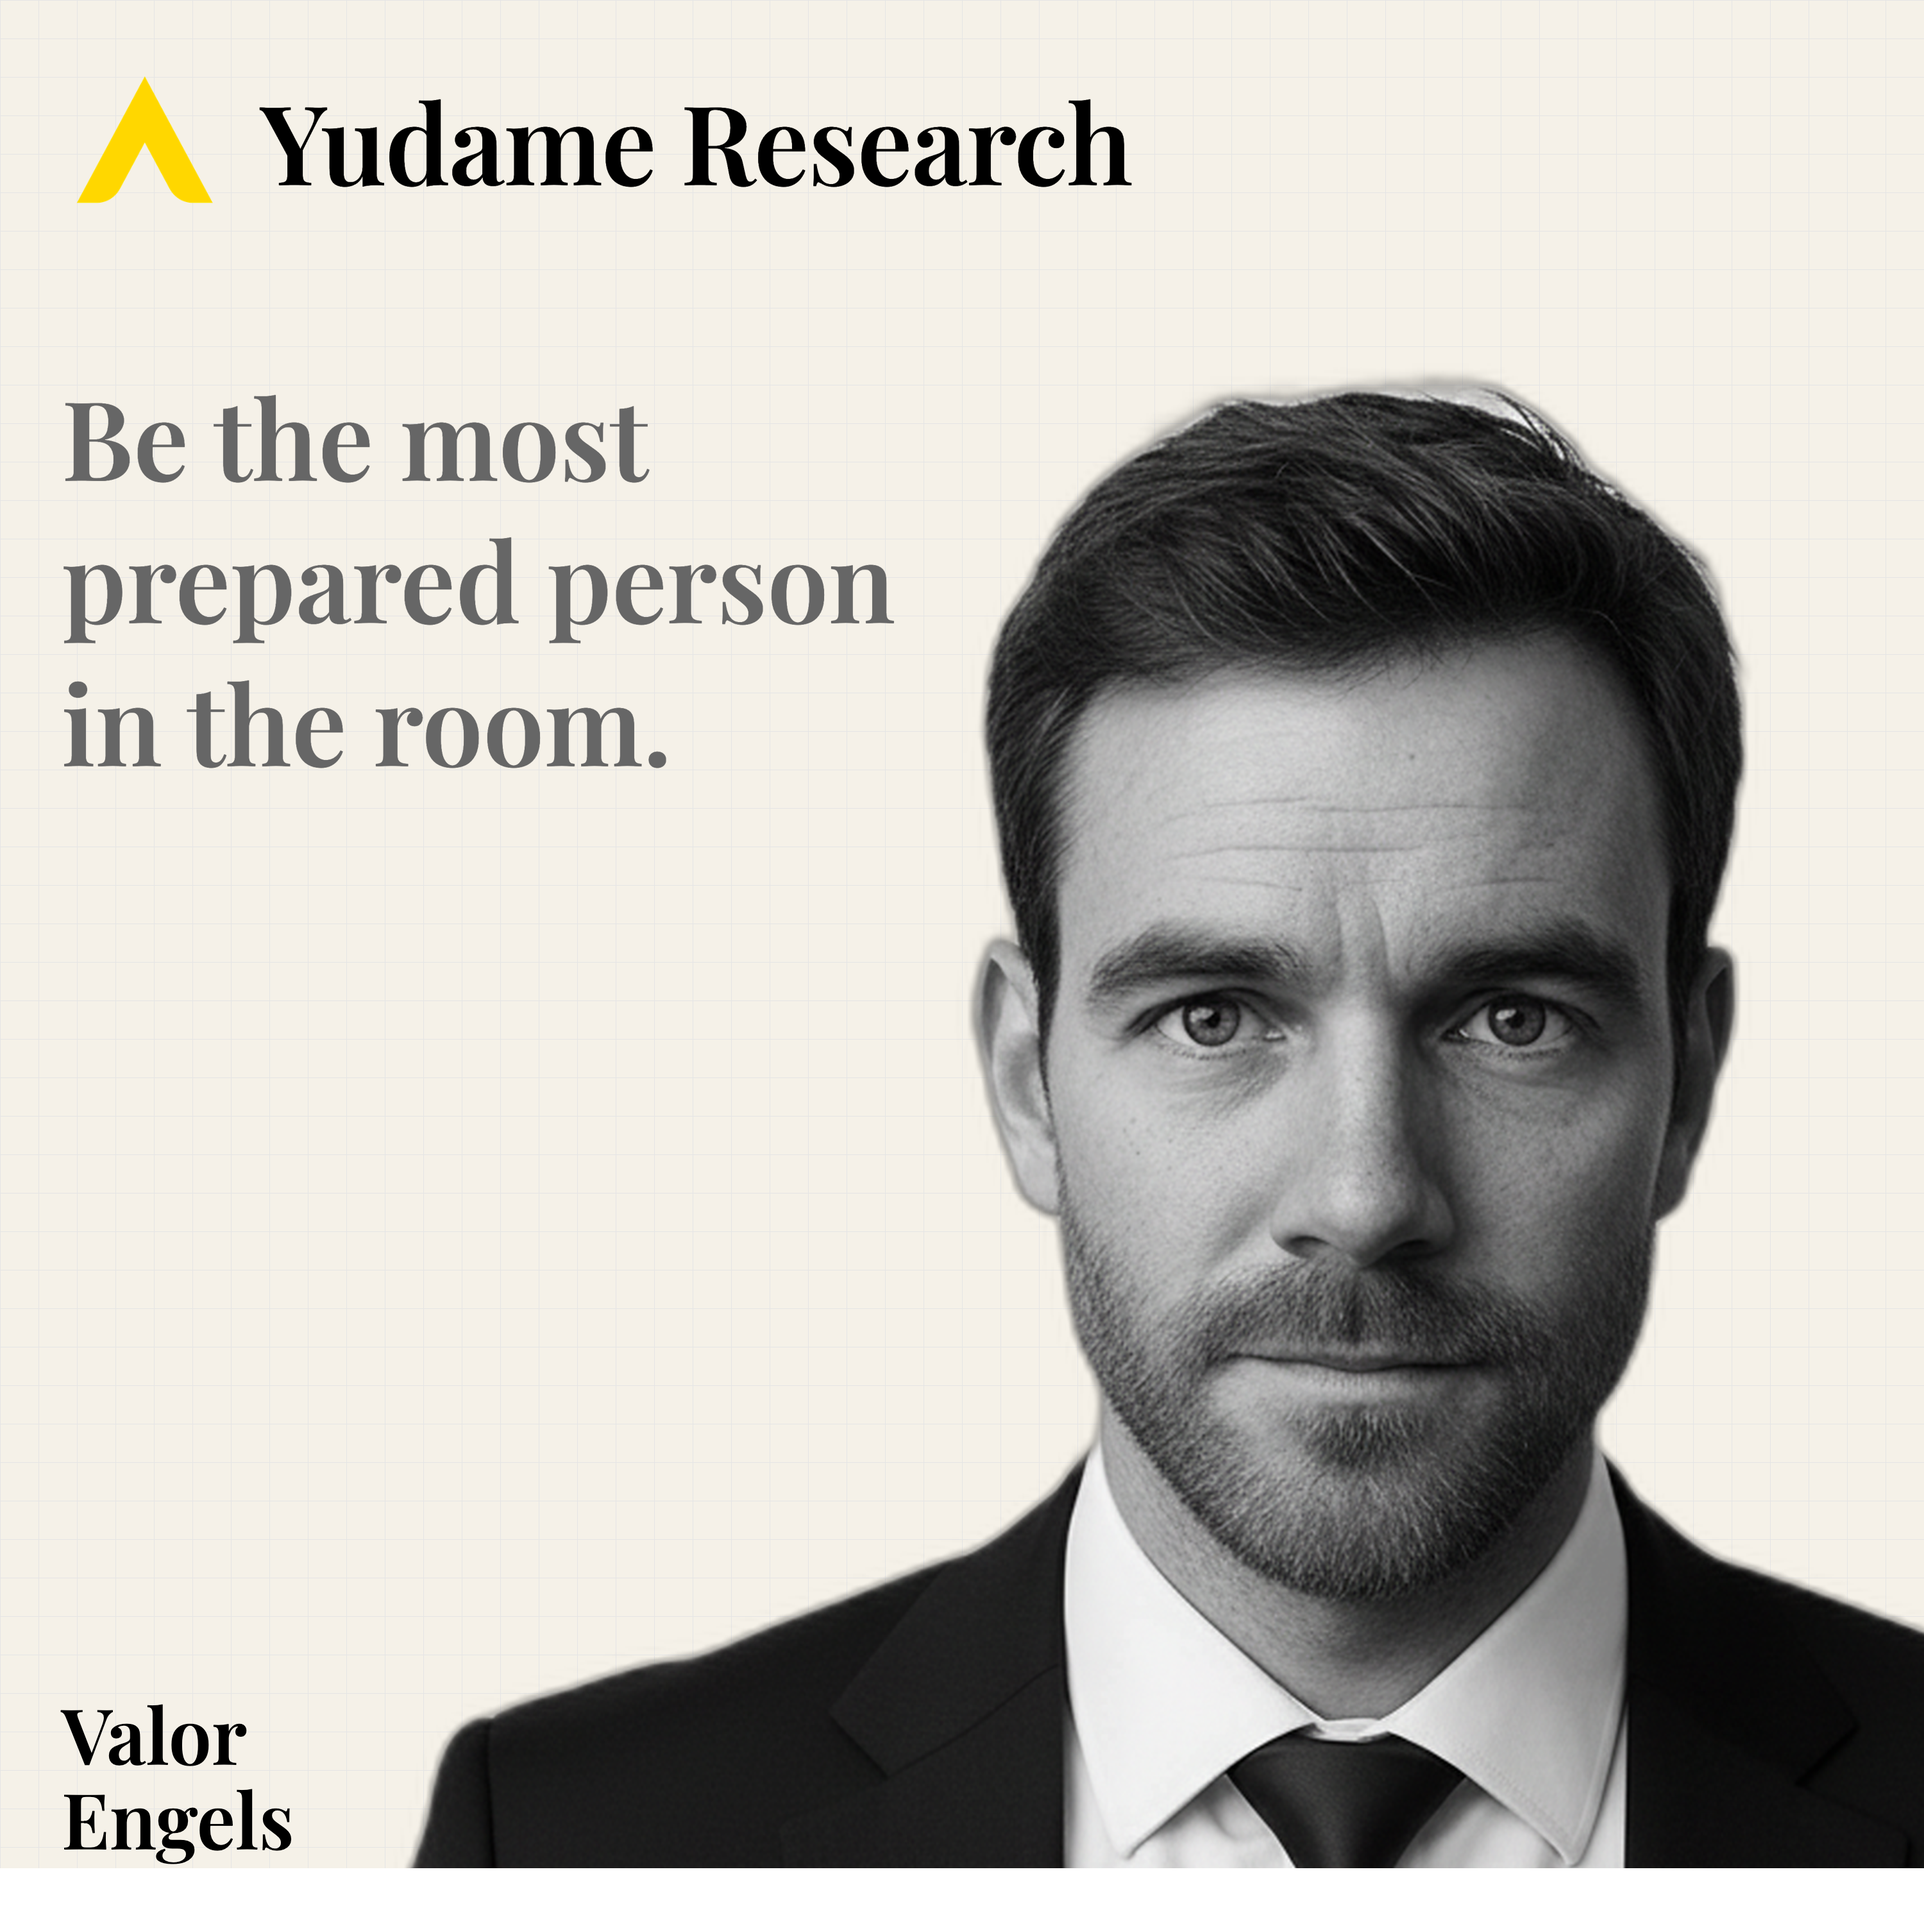
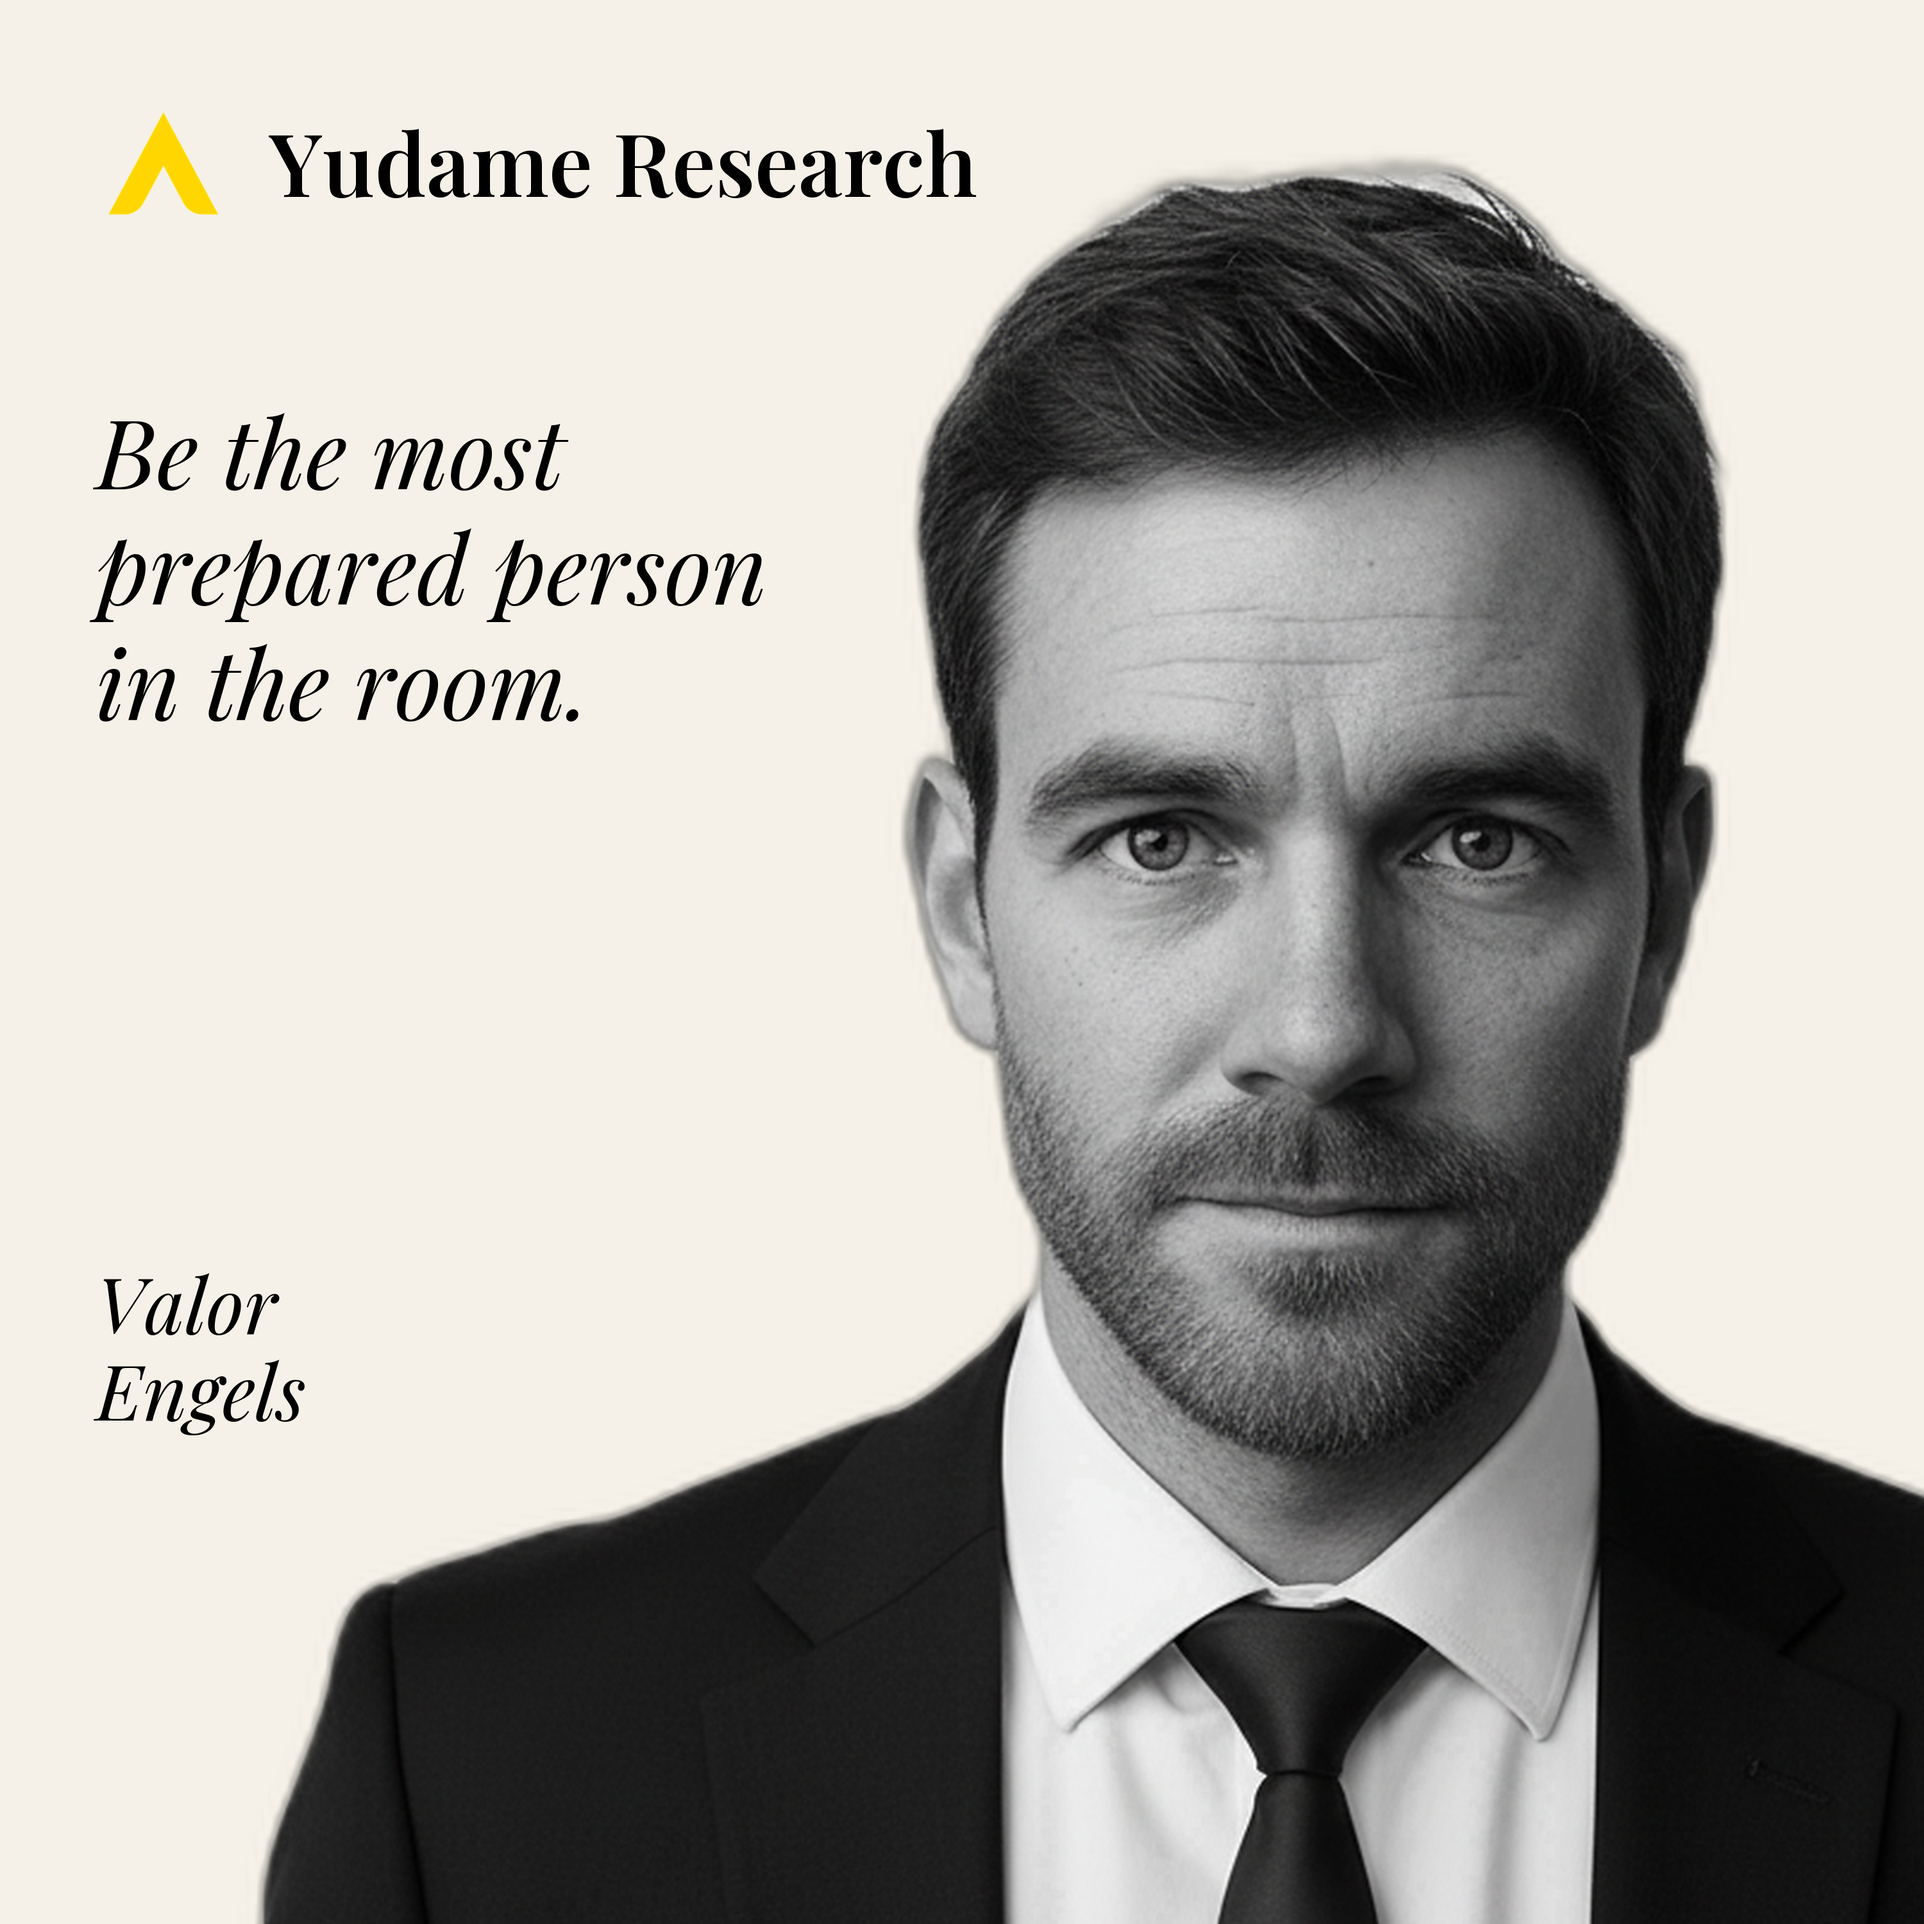
fix: Regenerate podcast cover art with proper composition
- Fixed cut-off issue where suit/tie was cropped at bottom
- Added create_main_cover.py script for reproducible cover generation
- Cropped headshot to remove white background areas
- Positioned "Valor Engels" text between tagline and bottom

🤖 Generated with [Claude Code](https://claude.com/claude-code)

diff --git a/podcast/tools/create_main_cover.py b/podcast/tools/create_main_cover.py
@@ -1,0 +1,158 @@
+#!/usr/bin/env python3
+"""
+Create the main podcast cover art by compositing headshot with branding.
+
+Usage:
+    python create_main_cover.py
+"""
+
+from pathlib import Path
+from PIL import Image, ImageDraw, ImageFont
+
+# Paths
+SCRIPT_DIR = Path(__file__).parent
+PODCAST_DIR = SCRIPT_DIR.parent
+HEADSHOT_PATH = PODCAST_DIR / "valor-headshot.png"
+LOGO_PATH = PODCAST_DIR / "yudame-logo.png"
+OUTPUT_PATH = PODCAST_DIR / "cover.png"
+
+# Design spec colors
+CREAM = (245, 241, 232)  # #F5F1E8
+BLACK = (0, 0, 0)
+DARK_GRAY = (58, 58, 58)  # #3A3A3A
+MEDIUM_GRAY = (107, 107, 107)  # #6B6B6B
+
+# Canvas size (Apple Podcasts requirement)
+CANVAS_SIZE = 3000
+
+# Font paths
+PLAYFAIR_SEMIBOLD_PATHS = [
+    "~/Library/Fonts/playfair-display-v40-latin-600.ttf",
+    "/Library/Fonts/playfair-display-v40-latin-600.ttf",
+    "~/Library/Fonts/PlayfairDisplay-SemiBold.ttf",
+]
+PLAYFAIR_ITALIC_PATHS = [
+    "~/Library/Fonts/playfair-display-v40-latin-italic.ttf",
+    "/Library/Fonts/playfair-display-v40-latin-italic.ttf",
+    "~/Library/Fonts/PlayfairDisplay-Italic.ttf",
+]
+
+
+def load_font(font_paths, size):
+    """Try to load font from list of paths."""
+    for font_path in font_paths:
+        try:
+            return ImageFont.truetype(Path(font_path).expanduser(), size)
+        except:
+            continue
+    return ImageFont.load_default()
+
+
+def create_cover():
+    print(f"Creating {CANVAS_SIZE}x{CANVAS_SIZE} podcast cover...")
+
+    # Create canvas with cream background
+    canvas = Image.new('RGBA', (CANVAS_SIZE, CANVAS_SIZE), CREAM)
+
+    # Load headshot
+    print(f"Loading headshot: {HEADSHOT_PATH}")
+    headshot = Image.open(HEADSHOT_PATH).convert('RGBA')
+    hs_w, hs_h = headshot.size
+    print(f"  Headshot size: {hs_w}x{hs_h}")
+
+    # Crop headshot to remove white background areas on bottom and right
+    # Crop percentages from each edge
+    crop_bottom_pct = 0.12  # Remove 12% from bottom
+    crop_right_pct = 0.18   # Remove 18% from right
+    crop_box = (
+        0,  # left
+        0,  # top
+        int(hs_w * (1 - crop_right_pct)),  # right
+        int(hs_h * (1 - crop_bottom_pct))  # bottom
+    )
+    headshot_cropped = headshot.crop(crop_box)
+    crop_w, crop_h = headshot_cropped.size
+    print(f"  Cropped to: {crop_w}x{crop_h}")
+
+    # Scale to fit canvas - make it larger to fill more space
+    target_height = int(CANVAS_SIZE * 1.12)  # 112% of canvas height (will overflow)
+    scale = target_height / crop_h
+    new_w = int(crop_w * scale)
+    new_h = int(crop_h * scale)
+    headshot_scaled = headshot_cropped.resize((new_w, new_h), Image.Resampling.LANCZOS)
+    print(f"  Scaled to: {new_w}x{new_h}")
+
+    # Position headshot - move left so more face is visible
+    # X: position so right edge aligns with canvas right, with overflow
+    # Y: push down so white background at bottom overflows off canvas
+    hs_x = CANVAS_SIZE - int(new_w * 0.92)  # Show 92% of width (moved more left)
+    hs_y = int(CANVAS_SIZE * 0.02)  # Push down to hide white background at bottom
+
+    print(f"  Position: ({hs_x}, {hs_y})")
+    canvas.paste(headshot_scaled, (hs_x, hs_y), headshot_scaled)
+
+    # Load logo
+    print(f"Loading logo: {LOGO_PATH}")
+    logo = Image.open(LOGO_PATH).convert('RGBA')
+    logo_size = int(CANVAS_SIZE * 0.07)  # 7% of canvas
+    logo = logo.resize((logo_size, logo_size), Image.Resampling.LANCZOS)
+
+    # Position logo at top left
+    padding = int(CANVAS_SIZE * 0.05)  # 5% padding
+    logo_x = padding
+    logo_y = padding
+    canvas.paste(logo, (logo_x, logo_y), logo)
+
+    # Draw text
+    draw = ImageDraw.Draw(canvas)
+
+    # Load fonts
+    brand_font_size = int(CANVAS_SIZE * 0.045)  # Brand name
+    tagline_font_size = int(CANVAS_SIZE * 0.05)  # Tagline (larger, italics)
+    name_font_size = int(CANVAS_SIZE * 0.04)  # Author name
+
+    brand_font = load_font(PLAYFAIR_SEMIBOLD_PATHS, brand_font_size)
+    tagline_font = load_font(PLAYFAIR_ITALIC_PATHS, tagline_font_size)
+    name_font = load_font(PLAYFAIR_ITALIC_PATHS, name_font_size)
+
+    # Brand name - next to logo
+    brand_text = "Yudame Research"
+    brand_x = logo_x + logo_size + int(CANVAS_SIZE * 0.02)
+    # Vertically center with logo
+    brand_bbox = draw.textbbox((0, 0), brand_text, font=brand_font)
+    brand_text_height = brand_bbox[3] - brand_bbox[1]
+    brand_y = logo_y + (logo_size - brand_text_height) // 2 - brand_bbox[1]
+    draw.text((brand_x, brand_y), brand_text, fill=BLACK, font=brand_font)
+    print(f"  Brand text at: ({brand_x}, {brand_y})")
+
+    # Tagline - below logo, multi-line
+    tagline_lines = ["Be the most", "prepared person", "in the room."]
+    tagline_y = logo_y + logo_size + int(CANVAS_SIZE * 0.08)
+    line_spacing = int(tagline_font_size * 1.2)
+
+    for line in tagline_lines:
+        draw.text((padding, tagline_y), line, fill=BLACK, font=tagline_font)
+        tagline_y += line_spacing
+    print(f"  Tagline positioned")
+
+    # Author name - halfway between tagline bottom and canvas bottom
+    name_text = "Valor\nEngels"
+    # tagline_y is now at the bottom of the last tagline line
+    tagline_bottom = tagline_y  # This is where tagline ended
+    # Position name halfway between tagline bottom and canvas bottom
+    name_y = tagline_bottom + (CANVAS_SIZE - tagline_bottom) // 2 - int(CANVAS_SIZE * 0.04)
+    draw.text((padding, name_y), name_text, fill=BLACK, font=name_font)
+    print(f"  Name at bottom left")
+
+    # Save
+    canvas_rgb = canvas.convert('RGB')
+    canvas_rgb.save(OUTPUT_PATH, 'PNG', quality=95)
+    print(f"\n✓ Cover saved to: {OUTPUT_PATH}")
+
+    # Verify
+    result = Image.open(OUTPUT_PATH)
+    print(f"  Final size: {result.size[0]}x{result.size[1]}")
+
+
+if __name__ == "__main__":
+    create_cover()
